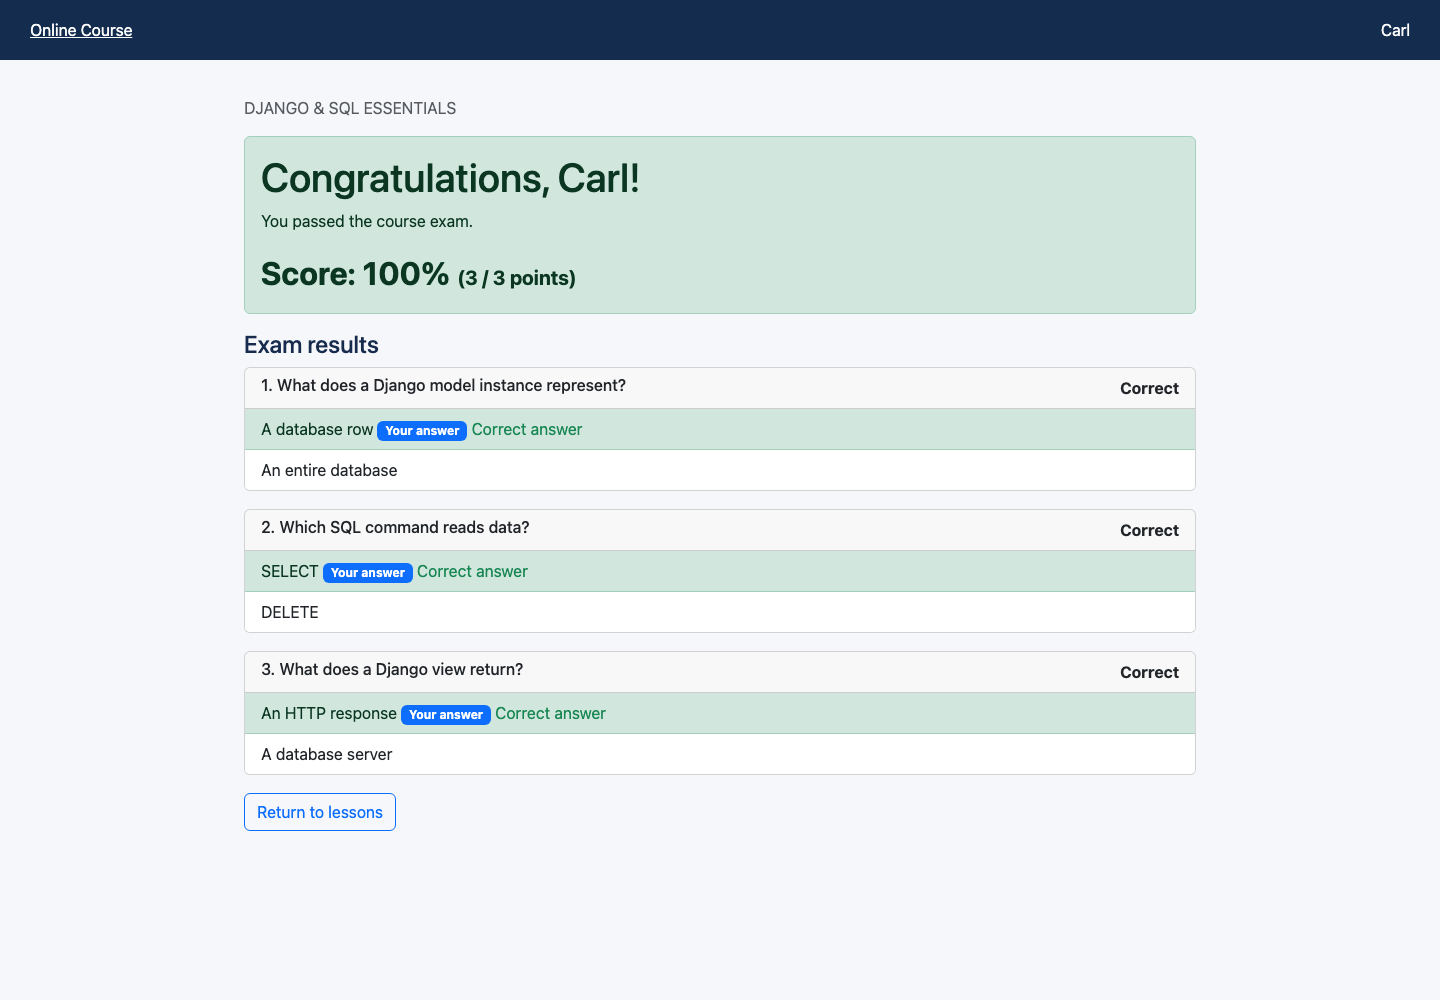
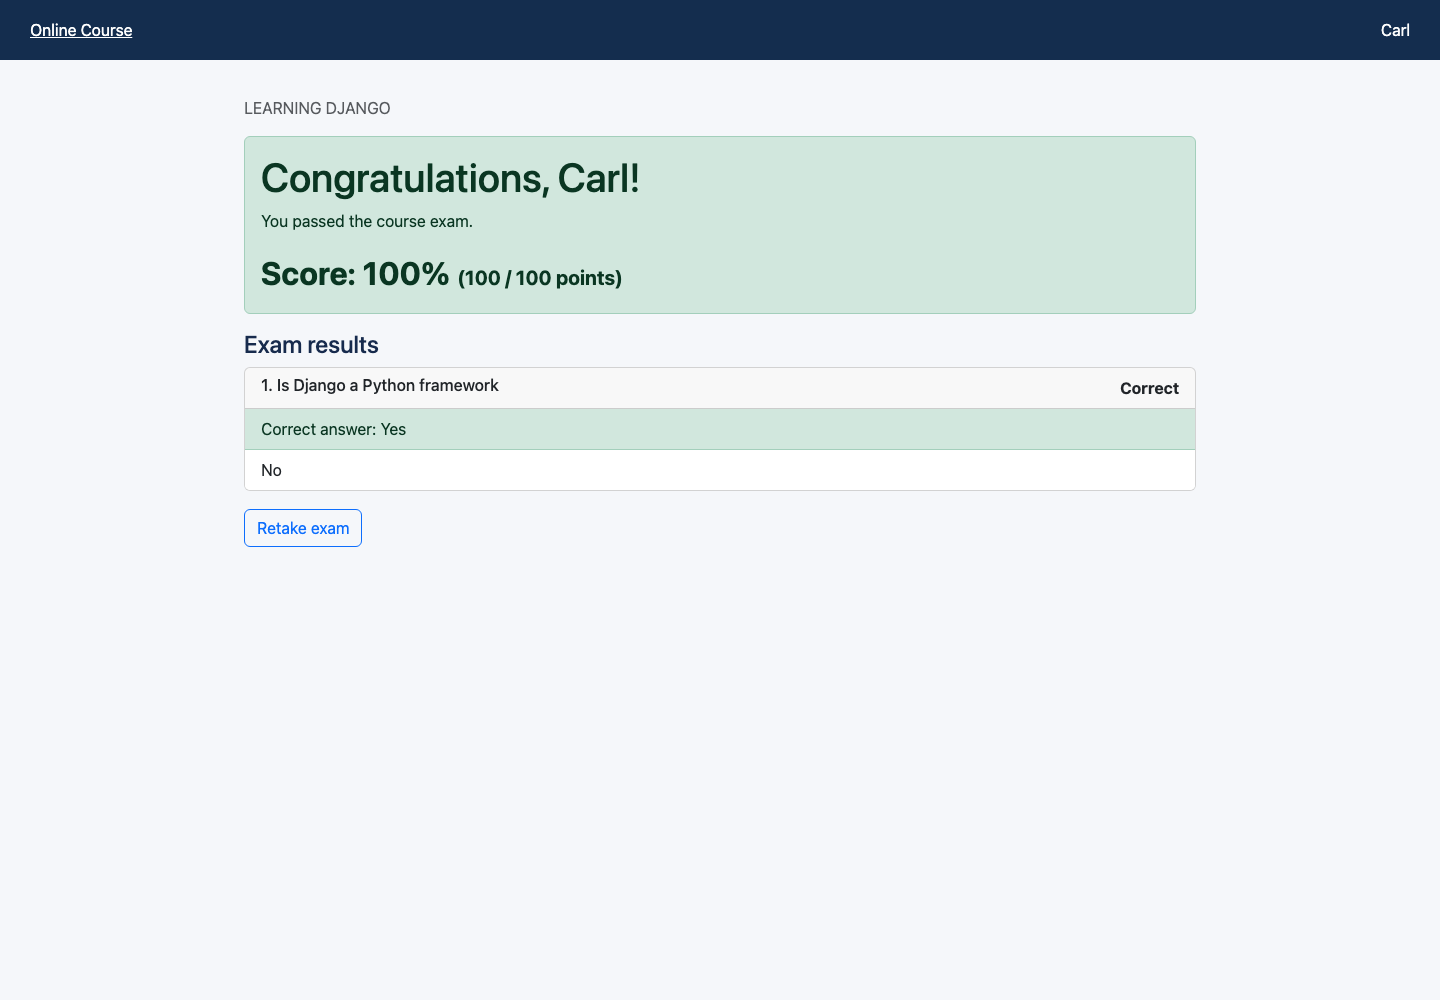
Align assessment UI and sample data with the full project lab

diff --git a/onlinecourse/templates/onlinecourse/exam_result_bootstrap.html b/onlinecourse/templates/onlinecourse/exam_result_bootstrap.html
@@ -8,6 +8,15 @@
 <h2 class="h4">Exam results</h2>
 {% for result in results %}
 <section class="card"><div class="card-header d-flex justify-content-between"><h3 class="h6 mb-0">{{ forloop.counter }}. {{ result.question.content }}</h3><strong>{% if result.correct %}Correct{% else %}Incorrect{% endif %}</strong></div>
-<ul class="list-group list-group-flush">{% for choice in result.choices %}<li class="list-group-item {% if choice.is_correct %}list-group-item-success{% endif %}">{{ choice.content }} {% if choice.id in selected_ids %}<span class="badge bg-primary">Your answer</span>{% endif %} {% if choice.is_correct %}<span class="text-success">Correct answer</span>{% endif %}</li>{% endfor %}</ul></section>
-{% endfor %}<a class="btn btn-outline-primary" href="{% url 'onlinecourse:course_details' course.id %}">Return to lessons</a>
+<ul class="list-group list-group-flush">
+{% for choice in result.choices %}
+{% if choice.is_correct and choice.id in selected_ids %}
+<li class="list-group-item list-group-item-success">Correct answer: {{ choice.content }}</li>
+{% elif choice.is_correct %}
+<li class="list-group-item list-group-item-warning">Not selected: {{ choice.content }}</li>
+{% elif choice.id in selected_ids %}
+<li class="list-group-item list-group-item-danger">Wrong answer: {{ choice.content }}</li>
+{% else %}<li class="list-group-item">{{ choice.content }}</li>{% endif %}
+{% endfor %}</ul></section>
+{% endfor %}<a class="btn btn-outline-primary" href="{% url 'onlinecourse:course_details' course.id %}">Retake exam</a>
 {% endblock %}

diff --git a/onlinecourse/templates/onlinecourse/course_details_bootstrap.html b/onlinecourse/templates/onlinecourse/course_details_bootstrap.html
@@ -7,6 +7,9 @@
 <section class="card"><div class="card-header"><h3 class="h5 mb-0">Lesson {{ forloop.counter }}: {{ lesson.title }}</h3></div><div class="card-body lesson-copy">{{ lesson.content }}</div></section>
 {% empty %}<p>No lessons published yet.</p>{% endfor %}
 {% if is_enrolled %}
+{% if course.question_set.exists %}
+<button class="btn btn-primary mt-4" type="button" data-bs-toggle="collapse" data-bs-target="#exam" aria-expanded="false" aria-controls="exam">Start Exam</button>
+<div class="collapse" id="exam">
 <h2 class="h4 mt-4">Course exam</h2><p>Select every correct answer for each question. You need more than 80% to pass.</p>
 <form action="{% url 'onlinecourse:submit' course.id %}" method="post">{% csrf_token %}
 {% for question in course.question_set.all %}
@@ -17,6 +20,8 @@
 {% empty %}<p>No exam published yet.</p>{% endfor %}
 {% if course.question_set.exists %}<button class="btn btn-primary" type="submit">Submit exam</button>{% endif %}
 </form>
+</div>
+{% else %}<p>No exam published yet.</p>{% endif %}
 {% elif user.is_authenticated %}<a class="btn btn-primary" href="{% url 'onlinecourse:enroll' course.id %}">Enroll to take the exam</a>
 {% else %}<a class="btn btn-primary" href="{% url 'onlinecourse:login' %}">Sign in to enroll</a>{% endif %}
 {% endblock %}

diff --git a/onlinecourse/templates/onlinecourse/base_assessment.html b/onlinecourse/templates/onlinecourse/base_assessment.html
@@ -4,4 +4,4 @@
 <link href="https://cdn.jsdelivr.net/npm/bootstrap@5.3.3/dist/css/bootstrap.min.css" rel="stylesheet">
 <style>body{background:#f5f7fa;color:#172b4d}main{max-width:1000px;margin:36px auto;padding:0 24px}.card{margin-bottom:18px}.lesson-copy{white-space:pre-line}header{background:#142d4e;color:white;padding:18px 30px}header a{color:white}.score{font-size:2rem;font-weight:700}</style>
 </head><body><header class="d-flex justify-content-between"><a href="{% url 'onlinecourse:index' %}">Online Course</a><span>{{ user.first_name|default:user.username }}</span></header>
-<main>{% block content %}{% endblock %}</main></body></html>
+<main>{% block content %}{% endblock %}</main><script src="https://cdn.jsdelivr.net/npm/bootstrap@5.3.3/dist/js/bootstrap.bundle.min.js"></script></body></html>

diff --git a/onlinecourse/management/commands/seed_lab.py b/onlinecourse/management/commands/seed_lab.py
@@ -1,0 +1,41 @@
+from pathlib import Path
+
+from django.contrib.auth import get_user_model
+from django.core.files import File
+from django.core.management.base import BaseCommand, CommandError
+from django.db import transaction
+from django.utils.timezone import localdate
+
+from onlinecourse.models import Choice, Course, Instructor, Lesson, Question
+
+
+class Command(BaseCommand):
+    help = 'Create the Learning Django example from Task 4 of the final-project lab.'
+
+    def add_arguments(self, parser):
+        parser.add_argument('--instructor', default='admin', help='Existing instructor username')
+
+    @transaction.atomic
+    def handle(self, *args, **options):
+        try:
+            user = get_user_model().objects.get(username=options['instructor'])
+        except get_user_model().DoesNotExist:
+            raise CommandError('Create the instructor account with createsuperuser first.')
+        instructor, _ = Instructor.objects.get_or_create(user=user, defaults={'total_learners': 0})
+        course, _ = Course.objects.get_or_create(name='Learning Django', defaults={
+            'description': 'Django is an extremely popular and fully featured server-side web framework, written in Python',
+            'pub_date': localdate(),
+        })
+        course.instructors.add(instructor)
+        if not course.image:
+            asset = Path(__file__).resolve().parents[2] / 'demo_assets' / 'question.png'
+            with asset.open('rb') as image:
+                course.image.save('question.png', File(image))
+        Lesson.objects.get_or_create(course=course, title='What is Django', defaults={
+            'order': 0,
+            'content': 'Django is a high-level Python web framework that encourages rapid development and clean, pragmatic design. Built by experienced developers, it takes care of much of the hassle of web development, so you can focus on writing your app without needing to reinvent the wheel. It is free and open source.',
+        })
+        question, _ = Question.objects.get_or_create(course=course, content='Is Django a Python framework', defaults={'grade': 100})
+        Choice.objects.get_or_create(question=question, content='Yes', defaults={'is_correct': True})
+        Choice.objects.get_or_create(question=question, content='No', defaults={'is_correct': False})
+        self.stdout.write(self.style.SUCCESS(f'Learning Django is ready at /onlinecourse/{course.pk}/'))

diff --git a/onlinecourse/tests.py b/onlinecourse/tests.py
@@ -74,3 +74,14 @@ class AssessmentTests(TestCase):
         self.user.save()
         self.assertContains(self.client.get('/admin/'), 'OnlineCourse')
         self.assertContains(self.client.get('/admin/'), 'Authentication and Authorization')
+
+    def test_failed_feedback_and_retake(self):
+        response = self.client.post(self.url, {'choices': [self.a.pk, self.c.pk]}, follow=True)
+        self.assertContains(response, 'Correct answer: A')
+        self.assertContains(response, 'Not selected: B')
+        self.assertContains(response, 'Wrong answer: C')
+        self.assertContains(response, 'Retake exam')
+        self.assertEqual(response.context['grade'], 0)
+        response = self.client.post(self.url, {'choices': [self.a.pk, self.b.pk]}, follow=True)
+        self.assertContains(response, 'Congratulations')
+        self.assertEqual(Submission.objects.count(), 2)

diff --git a/LAB_CHECKLIST.md b/LAB_CHECKLIST.md
@@ -1,0 +1,41 @@
+# Final-project lab audit
+
+Compared against the complete Skills Network guide, “Final Project: Add a New Assessment Feature to an Online Course App,” on September 19, 2026.
+
+| Lab task | Implementation and validation |
+| --- | --- |
+| 1. Build new models | Question, Choice, Submission, relationships and migrations; exact-set multiple-selection scoring. |
+| 2. Register model changes | Seven models registered; QuestionInline, ChoiceInline, QuestionAdmin, LessonAdmin; working admin screenshot. |
+| 3. Course detail template | Ordered lessons, enrollment, Start Exam collapse, multiple-selection form and CSRF-protected POST. |
+| 4. Test data | Learning Django course, supplied cover image, admin instructor, What is Django lesson, 100-point Yes/No question. Reproducible with seed_lab. |
+| 5. Submission and evaluation views | Persist selected choices, calculate weighted results, redirect through named routes, restrict access to the submission owner. |
+| 6. Result template | Congratulations and score on success; green correct, yellow missed, red incorrect selections; working retake link. |
+
+## Reproduce the lab example
+
+After installing dependencies and migrating:
+
+```sh
+python manage.py createsuperuser --username admin
+python manage.py seed_lab
+python manage.py runserver
+```
+
+The seed command creates the specified sample data without embedding credentials. Use `/admin/` to inspect/edit the course, lesson, instructor, question and choices. Enroll in Learning Django, click Start Exam, and submit Yes for the successful mock result. Submitting No demonstrates the failure feedback and retake flow.
+
+The cover image in `onlinecourse/demo_assets/question.png` comes from the lab's supplied IBM Skills Network asset:
+https://cf-courses-data.s3.us.cloud-object-storage.appdomain.cloud/IBMSkillsNetwork-DB0211EN-edX/images/question.png
+
+## Submission artifacts
+
+All seven items are present: models.py, admin.py, screenshots/03-admin-site.png, course_details_bootstrap.html, views.py, urls.py, and screenshots/07-final.png. Screenshots show the running local application; the exam result is from a real form submission.
+
+## Differences from the guided procedure
+
+- Uses the official IBM starter in the user's `coursera` repository, rather than a GitHub fork named `tfjzl-final-cloud-app-with-database`.
+- Runs in a local Mac virtual environment rather than `/home/project` in Cloud IDE. The Cloud IDE workspace has not been synchronized.
+- Sample data was provisioned using a management command and inspected in the admin UI, rather than entered manually through every admin form.
+- Uses Django 5.2 and Bootstrap 5, with equivalent updated syntax. Choice inputs share a list field; views read that list rather than scanning prefixed input names.
+- Normalizes weighted points to a percentage; the guide's 100-point example produces the same 100/100 result. Enforces enrollment and submission ownership.
+
+Validation: 11 automated tests, Django system checks, and browser checks for admin access, the collapsed exam, incorrect/missed feedback, retake, and successful 100% submission. This audit verifies implementation and artifacts, not an evaluator's future grade.

diff --git a/README.md b/README.md
@@ -35,6 +35,10 @@ python manage.py check
 python manage.py test
 ```
 
-Ten tests cover exact-choice scoring, weighted scoring, successful and blank submissions, invalid/foreign choices, enrollment, login, HTTP method restrictions, private results, and admin rendering. A browser smoke test covered enrollment, answering questions, submission, and the displayed 100% result.
+Eleven tests cover exact-choice scoring, weighted scoring, successful and blank submissions, invalid/foreign choices, enrollment, login, HTTP method restrictions, private results, and admin rendering. A browser smoke test covered enrollment, answering questions, submission, and the displayed 100% result.
 
 This is a local educational application. Production deployment requires a private secret key, DEBUG=False, configured hostnames, HTTPS, and static/media hosting. The local database and session credentials are not included.
+
+## Full lab alignment
+
+See [LAB_CHECKLIST.md](LAB_CHECKLIST.md) for all six lab tasks, the exact Learning Django sample data, validation, and differences from the Cloud IDE procedure. After creating an admin account, run `python manage.py seed_lab` to reproduce that example.
